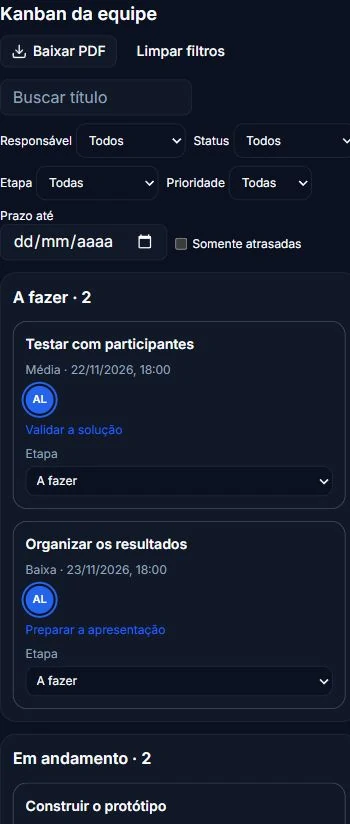
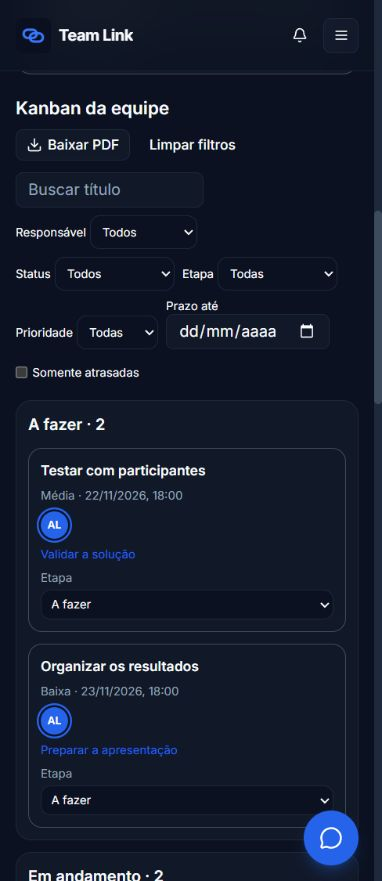
Add native HD screenshot gallery and unify Team Link branding

diff --git a/src/components/home/product-showcase.tsx b/src/components/home/product-showcase.tsx
@@ -1,9 +1,9 @@
 'use client'
 
 import { useEffect, useRef, useState, type CSSProperties } from 'react'
-import { Check, CheckSquare, FileText, GitBranch, LayoutDashboard, MessageSquare, PanelsTopLeft, Target, Users, X, ZoomIn, type LucideIcon } from 'lucide-react'
-import { productScreens, type ProductScreen } from './product-screens'
-import { nextShowcaseTab } from './showcase-navigation'
+import { Check, CheckSquare, ChevronLeft, ChevronRight, FileText, GitBranch, LayoutDashboard, MessageSquare, PanelsTopLeft, Target, Users, X, ZoomIn, ZoomOut, type LucideIcon } from 'lucide-react'
+import { galleryScreens, productScreens, type ProductScreen } from './product-screens'
+import { nextShowcaseTab, showcaseSwipeStep } from './showcase-navigation'
 import styles from './home.module.css'
 
 export type ShowcaseItem = {
@@ -13,23 +13,39 @@ export type ShowcaseItem = {
   description: string
 }
 
-const screenIcons:Record<ProductScreen,LucideIcon>={panel:PanelsTopLeft,space:LayoutDashboard,activities:CheckSquare,team:Users,goals:Target,messages:MessageSquare,documents:FileText,integrations:GitBranch}
+const screenIcons: Record<ProductScreen, LucideIcon> = { panel: PanelsTopLeft, space: LayoutDashboard, activities: CheckSquare, team: Users, goals: Target, messages: MessageSquare, documents: FileText, integrations: GitBranch }
 
-function ScreenImage({ screen, enlarged = false }: { screen: ProductScreen; enlarged?: boolean }) {
+function ScreenImage({ screen, enlarged = false, desktopOnly = false }: { screen: ProductScreen; enlarged?: boolean; desktopOnly?: boolean }) {
   const { desktop, mobile, alt } = productScreens[screen]
-  return <picture className={styles.screenImage} style={{ '--capture-desktop-width': desktop.width + 'px', '--capture-mobile-width': mobile.width + 'px' } as CSSProperties}>
-    <source media="(max-width: 1023px)" srcSet={mobile.src} width={mobile.width} height={mobile.height} />
-    {/* Already optimized WebP; picture provides the separately captured mobile composition. */}
-    <img src={desktop.src} width={desktop.width} height={desktop.height} alt={alt} loading={enlarged ? 'eager' : 'lazy'} decoding="async" draggable={false} />
+  const image = enlarged ? galleryScreens.find(item => item.id === screen)!.image : desktop
+  return <picture className={styles.screenImage} style={{ '--capture-desktop-width': image.width + 'px', '--capture-mobile-width': mobile.width + 'px' } as CSSProperties}>
+    {!desktopOnly && <source media="(max-width: 1023px)" srcSet={mobile.src} width={mobile.width} height={mobile.height} />}
+    {/* Pre-optimized WebP: full native resolution is fetched only when the gallery opens. */}
+    <img src={image.src} width={image.width} height={image.height} alt={alt} loading={enlarged ? 'eager' : 'lazy'} decoding="async" draggable={false} />
   </picture>
 }
 
 export function ProductShowcase({ items, id, label, preview = false }: { items: readonly ShowcaseItem[]; id: string; label: string; preview?: boolean }) {
   const [selected, setSelected] = useState(0)
-  const [expanded, setExpanded] = useState(false)
+  const [galleryIndex, setGalleryIndex] = useState<number | null>(null)
+  const [zoomed, setZoomed] = useState(false)
+  const [desktopOnly, setDesktopOnly] = useState(false)
   const tabs = useRef<(HTMLButtonElement | null)[]>([])
   const dialog = useRef<HTMLDialogElement>(null)
-  const active = items[selected]
+  const stage = useRef<HTMLDivElement>(null)
+  const drag = useRef<{ x: number; y: number; pointer: number } | null>(null)
+  const expanded = galleryIndex !== null
+  const active = galleryScreens[galleryIndex ?? 0]
+
+  function openGallery(screen: ProductScreen) {
+    setZoomed(false)
+    setDesktopOnly(false)
+    setGalleryIndex(galleryScreens.findIndex(item => item.id === screen))
+  }
+  function navigate(step: number) {
+    setZoomed(false)
+    setGalleryIndex(current => current === null ? null : (current + step + galleryScreens.length) % galleryScreens.length)
+  }
 
   useEffect(() => {
     if (!expanded) return
@@ -46,28 +62,69 @@ export function ProductShowcase({ items, id, label, preview = false }: { items: 
     }
   }, [expanded])
 
+  useEffect(() => {
+    stage.current?.scrollTo({ top: 0, left: 0 })
+    drag.current = null
+  }, [galleryIndex, zoomed, desktopOnly])
+
   return <div className={preview ? styles.productFrame : styles.tour}>
     <div role="tablist" aria-label={label} className={styles.tourTabs + (preview ? ' ' + styles.previewTabs : '')} onKeyDown={event => {
+      if (event.altKey || event.ctrlKey || event.metaKey) return
       const destination = nextShowcaseTab(event.key, selected, items.length)
       if (destination !== null) { event.preventDefault(); setSelected(destination); tabs.current[destination]?.focus() }
     }}>
-      {items.map(({ id: screen, label: text }, index) => {const Icon=screenIcons[screen];return <button key={screen} ref={element => { tabs.current[index] = element }} type="button" role="tab" id={`${id}-tab-${screen}`} aria-controls={`${id}-panel-${screen}`} aria-selected={index === selected} tabIndex={index === selected ? 0 : -1} onClick={() => setSelected(index)}><Icon aria-hidden className="size-4 shrink-0" /><span className={styles.tabLabel}>{text}</span><span aria-hidden="true" className={styles.tabSelection}><Check className="size-3.5" /></span></button>})}
+      {items.map(({ id: screen, label: text }, index) => {
+        const Icon = screenIcons[screen]
+        return <button key={screen} ref={element => { tabs.current[index] = element }} type="button" role="tab" id={`${id}-tab-${screen}`} aria-controls={`${id}-panel-${screen}`} aria-selected={index === selected} tabIndex={index === selected ? 0 : -1} onClick={() => setSelected(index)}><Icon aria-hidden className="size-4 shrink-0" /><span className={styles.tabLabel}>{text}</span><span aria-hidden="true" className={styles.tabSelection}><Check className="size-3.5" /></span></button>
+      })}
     </div>
     {items.map((item, index) => <div key={item.id} role="tabpanel" id={`${id}-panel-${item.id}`} aria-labelledby={`${id}-tab-${item.id}`} hidden={selected !== index} tabIndex={0} className={styles.tourPanel}>
       {selected === index && <>
         {preview ? <p className={styles.previewDescription}>{item.description}</p> : <div className={styles.tourIntro}><div><h3>{item.title}</h3><p>{item.description}</p></div><span>Demonstração — dados ilustrativos</span></div>}
-        <div className={styles.screenshotFrame + (preview ? ' ' + styles.previewScreenshot : '')}><ScreenImage screen={item.id} /></div>
-        <div className={styles.captureFooter}><p>Captura de tela · {productScreens[item.id].caption}</p><button type="button" onClick={() => setExpanded(true)} aria-label={'Ampliar captura de ' + item.label}><ZoomIn aria-hidden className="size-4" />Ampliar captura</button></div>
+        <button type="button" className={`${styles.screenshotFrame} ${styles.captureTrigger}${preview ? ' ' + styles.previewScreenshot : ''}`} aria-label={'Abrir galeria: ' + item.label} aria-haspopup="dialog" onClick={() => openGallery(item.id)}><ScreenImage screen={item.id} /></button>
+        <div className={styles.captureFooter}><p>Captura de tela · {productScreens[item.id].caption}</p><button type="button" onClick={() => openGallery(item.id)} aria-label={'Ampliar captura de ' + item.label} aria-haspopup="dialog"><ZoomIn aria-hidden className="size-4" />Ampliar captura</button></div>
       </>}
     </div>)}
-    <dialog ref={dialog} className={styles.captureDialog} aria-label={'Captura ampliada de ' + active.label} onCancel={event => { event.preventDefault(); setExpanded(false) }} onClick={event => {
+    <dialog ref={dialog} className={styles.captureDialog} aria-label="Galeria de capturas do Team Link" aria-describedby={`${id}-gallery-note`} onCancel={event => { event.preventDefault(); setGalleryIndex(null) }} onKeyDown={event => {
+      if (event.key === 'Tab') {
+        const controls = Array.from(event.currentTarget.querySelectorAll<HTMLElement>('button:not([disabled]),[tabindex="0"]')).filter(element => element.getClientRects().length > 0)
+        const first = controls[0], last = controls.at(-1)
+        if (event.shiftKey && document.activeElement === first) { event.preventDefault(); last?.focus() }
+        else if (!event.shiftKey && document.activeElement === last) { event.preventDefault(); first?.focus() }
+        return
+      }
+      if (event.altKey || event.ctrlKey || event.metaKey) return
+      if (event.key === 'ArrowLeft' || event.key === 'ArrowRight') { event.preventDefault(); navigate(event.key === 'ArrowLeft' ? -1 : 1) }
+      if (event.key === 'Home' || event.key === 'End') { event.preventDefault(); setZoomed(false); setGalleryIndex(event.key === 'Home' ? 0 : galleryScreens.length - 1) }
+    }} onClick={event => {
       if (event.target !== event.currentTarget) return
       const rect = event.currentTarget.getBoundingClientRect()
-      if (event.clientX < rect.left || event.clientX > rect.right || event.clientY < rect.top || event.clientY > rect.bottom) setExpanded(false)
+      if (event.clientX < rect.left || event.clientX > rect.right || event.clientY < rect.top || event.clientY > rect.bottom) setGalleryIndex(null)
     }}>
-      <div className={styles.captureDialogHeader}><div><h2>{active.label}</h2><p>Demonstração — dados ilustrativos</p></div><button type="button" aria-label="Fechar captura ampliada" onClick={() => setExpanded(false)}><X aria-hidden className="size-5" /></button></div>
-      {expanded && <div className={styles.screenshotFrame}><ScreenImage screen={active.id} enlarged /></div>}
-      <p className={styles.captureDialogNote}>Captura da interface do Team Link. Acesse sua conta para utilizar os recursos.</p>
+      <div className={styles.captureDialogHeader}><div><h2>{active.label}</h2><p>Demonstração — dados ilustrativos</p></div><button type="button" aria-label="Fechar galeria" onClick={() => setGalleryIndex(null)}><X aria-hidden className="size-5" /></button></div>
+      <div ref={stage} className={styles.captureStage} data-zoomed={zoomed} data-desktop={desktopOnly} tabIndex={zoomed ? 0 : -1} aria-label="Captura; em tamanho original, use a rolagem para explorar os detalhes" onKeyDown={event => {
+        if (zoomed && (event.key === 'ArrowLeft' || event.key === 'ArrowRight')) event.stopPropagation()
+      }} onPointerDown={event => {
+        if (zoomed || event.button !== 0 || !event.isPrimary) return
+        drag.current = { x: event.clientX, y: event.clientY, pointer: event.pointerId }
+        event.currentTarget.setPointerCapture(event.pointerId)
+      }} onPointerUp={event => {
+        const start = drag.current
+        drag.current = null
+        if (!start || start.pointer !== event.pointerId || zoomed) return
+        const step = showcaseSwipeStep(event.clientX - start.x, event.clientY - start.y)
+        if (step) navigate(step)
+      }} onPointerCancel={() => { drag.current = null }}>
+        {expanded && <ScreenImage key={active.id + String(desktopOnly)} screen={active.id} enlarged desktopOnly={desktopOnly} />}
+      </div>
+      <div className={styles.galleryToolbar}>
+        <div className={styles.galleryNavigation}><button type="button" aria-label="Captura anterior" onClick={() => navigate(-1)}><ChevronLeft aria-hidden className="size-5" /></button><p role="status" aria-live="polite" aria-atomic="true">{(galleryIndex ?? 0) + 1} de {galleryScreens.length}</p><button type="button" aria-label="Próxima captura" onClick={() => navigate(1)}><ChevronRight aria-hidden className="size-5" /></button></div>
+        <div className={styles.galleryViewControls}>
+          <button type="button" className={styles.galleryFormat} aria-pressed={desktopOnly} aria-label={desktopOnly ? 'Ver captura adaptada ao dispositivo' : 'Ver captura desktop em Full HD'} onClick={() => { setZoomed(false); setDesktopOnly(value => !value) }}>{desktopOnly ? 'Mobile' : 'HD'}</button>
+          <button type="button" aria-pressed={zoomed} aria-label={zoomed ? 'Ajustar captura à tela' : 'Ver captura em tamanho original'} onClick={() => setZoomed(value => !value)}>{zoomed ? <ZoomOut aria-hidden className="size-4" /> : <ZoomIn aria-hidden className="size-4" />}<span>{zoomed ? 'Ajustar' : '100%'}</span></button>
+        </div>
+      </div>
+      <p id={`${id}-gallery-note`} className={styles.captureDialogNote}>Interface real do Team Link · Arraste para os lados ou use as setas. Em 100%, role a imagem para ler os detalhes.</p>
     </dialog>
   </div>
 }

diff --git a/src/components/home/home.module.css b/src/components/home/home.module.css
@@ -84,10 +84,12 @@
 .solution { background: color-mix(in srgb, var(--home-soft) 45%, var(--background)); scroll-margin-top: 100px; }
 .tour { border: 1px solid var(--home-line); border-radius: 16px; background: var(--home-frame); overflow: hidden; box-shadow: 0 12px 50px -30px #0004; }
 .tourTabs { display: grid; grid-template-columns: repeat(6, minmax(0, 1fr)); padding: 12px; gap: 10px; border-bottom: 1px solid var(--home-line); background: var(--home-soft); }
-.tourTabs > button { position: relative; display: flex; align-items: center; justify-content: center; gap: 8px; min-width: 0; min-height: 50px; padding: 12px; border: 1px solid var(--home-tab-border); border-radius: 10px; background: var(--home-tab-surface); color: var(--foreground); font-size: 13px; line-height: 1.4; font-weight: 600; cursor: pointer; transition: background-color .15s ease, border-color .15s ease, box-shadow .15s ease; }
+.tourTabs > button { position: relative; display: flex; align-items: center; justify-content: center; gap: 8px; min-width: 0; min-height: 50px; padding: 12px; border: 2px solid var(--home-tab-border); border-radius: 10px; background: var(--home-tab-surface); color: var(--foreground); font-size: 13px; line-height: 1.4; font-weight: 600; box-shadow: 0 2px 3px #00000012; cursor: pointer; transition: background-color .15s ease, border-color .15s ease, box-shadow .15s ease; }
 .tourTabs > button:hover { background: var(--home-accent); border-color: var(--home-blue); }
 .tourTabs > button[aria-selected="true"] { color: #fff; background: var(--home-action-blue); border-color: var(--home-action-blue); box-shadow: 0 2px 7px color-mix(in srgb, var(--home-action-blue) 24%, transparent); }
 .tourTabs > button[aria-selected="true"]:hover { background: var(--home-action-blue-hover); border-color: var(--home-action-blue-hover); }
+.tourTabs > button:active { box-shadow: inset 0 2px 5px #0003; background: var(--home-accent); }
+.tourTabs > button[aria-selected="true"]:active { background: var(--home-action-blue-hover); }
 .tabLabel { min-width: 0; }
 .tabSelection { display: inline-flex; width: 14px; height: 14px; flex-shrink: 0; opacity: 0; }
 .tourTabs > button[aria-selected="true"] .tabSelection { opacity: 1; }
@@ -210,14 +212,34 @@
 .captureFooter > p { max-width: 65ch; }
 .captureFooter > button { display: inline-flex; align-items: center; gap: 7px; flex-shrink: 0; min-height: 36px; padding: 6px 10px; border: 1px solid var(--home-line); border-radius: 8px; color: var(--home-blue); background: var(--home-soft); font-size: 12px; font-weight: 550; cursor: pointer; }
 .captureFooter > button:hover { background: var(--home-accent); }
-.captureDialog { position: fixed; inset: 0; margin: auto; width: calc(100% - 32px); max-width: 1400px; max-height: 92dvh; padding: 0; overflow-y: auto; overscroll-behavior: contain; border: 1px solid var(--home-line); border-radius: 16px; background: var(--home-frame); color: var(--foreground); box-shadow: 0 25px 90px #0008; }
+.captureDialog { position: fixed; inset: 0; margin: auto; width: calc(100% - 32px); max-width: 1600px; height: 92dvh; max-height: 1100px; padding: 0; overflow: hidden; overscroll-behavior: contain; border: 1px solid var(--home-line); border-radius: 16px; background: var(--home-frame); color: var(--foreground); box-shadow: 0 25px 90px #0008; }
+.captureDialog[open] { display: grid; grid-template-rows: auto minmax(0, 1fr) auto auto; }
 .captureDialog::backdrop { background: #030713cc; backdrop-filter: blur(5px); }
 .captureDialogHeader { position: sticky; top: 0; display: flex; align-items: center; justify-content: space-between; gap: 16px; padding: 16px 20px; background: var(--home-frame); border-bottom: 1px solid var(--home-line); }
 .home .captureDialog h2 { font-size: 18px; line-height: 1.4; letter-spacing: -.02em; font-weight: 650; }
 .captureDialogHeader p, .captureDialogNote { font-size: 11px; color: var(--home-muted); line-height: 1.8; }
-.captureDialogHeader button { display: grid; place-items: center; width: 40px; height: 40px; flex-shrink: 0; border-radius: 8px; border: 1px solid var(--home-line); cursor: pointer; }
+.captureDialogHeader button { display: grid; place-items: center; width: 44px; height: 44px; flex-shrink: 0; border-radius: 8px; border: 1px solid var(--home-line); cursor: pointer; }
 .captureDialogHeader button:hover { background: var(--home-soft); }
 .captureDialogNote { padding: 12px 20px; }
+.captureTrigger { width: 100%; cursor: zoom-in; }
+.captureTrigger:hover { outline: 2px solid var(--home-blue); outline-offset: -2px; }
+.home .captureTrigger:focus-visible { outline-offset: -4px; }
+.captureStage { min-height: 0; min-width: 0; overflow: auto; background: #0b1120; overscroll-behavior: contain; touch-action: pan-y pinch-zoom; cursor: grab; user-select: none; }
+.captureStage:active { cursor: grabbing; }
+.home .captureStage:focus-visible { outline-offset: -4px; }
+.captureStage .screenImage { height: 100%; }
+.captureStage .screenImage img { width: 100%; height: 100%; max-width: none; object-fit: contain; }
+.captureStage[data-zoomed="true"] { touch-action: auto; cursor: auto; }
+.captureStage[data-zoomed="true"] .screenImage { display: block; width: max-content; height: auto; }
+.captureStage[data-zoomed="true"] img { display: block; width: var(--capture-desktop-width); height: auto; max-width: none; }
+.galleryToolbar { display: flex; flex-wrap: wrap; align-items: center; justify-content: space-between; gap: 12px; padding: 10px 20px; border-top: 1px solid var(--home-line); }
+.galleryViewControls { display: flex; gap: 8px; margin-left: auto; }
+.galleryNavigation { display: flex; align-items: center; gap: 10px; }
+.galleryNavigation p { min-width: 46px; text-align: center; font-size: 13px; font-variant-numeric: tabular-nums; }
+.galleryToolbar button { display: inline-flex; align-items: center; justify-content: center; gap: 6px; min-width: 44px; min-height: 44px; padding: 8px 12px; border: 1px solid var(--home-tab-border); border-radius: 8px; background: var(--home-tab-surface); color: var(--foreground); font-size: 12px; font-weight: 600; cursor: pointer; }
+.galleryToolbar button:hover, .galleryToolbar button:active { background: var(--home-accent); border-color: var(--home-blue); }
+.galleryToolbar button[aria-pressed="true"] { background: var(--home-action-blue); color: #fff; border-color: var(--home-action-blue); }
+.galleryToolbar .galleryFormat { display: none; }
 @media (max-width: 1023px) {
   .screenImage img { max-width: var(--capture-mobile-width); }
   .screenshotFrame { min-height: 0; padding: 16px; }
@@ -237,10 +259,18 @@
   .captureDialogHeader { padding: 12px; }
   .captureDialog .screenshotFrame { padding: 8px; }
   .captureDialogNote { padding: 12px; }
+  .galleryToolbar { padding: 8px 12px; gap: 8px; }
+  .galleryNavigation { gap: 6px; }
 }
 @media (max-width: 359px) {
   .tourTabs { grid-template-columns: repeat(2, minmax(0, 1fr)); }
 }
 @media (prefers-reduced-motion: reduce) {
   .tourTabs > button { transition: none; }
+}
+@media (max-width: 1023px) {
+  .galleryToolbar .galleryFormat { display: inline-flex; }
+  .captureStage:not([data-desktop="true"]) .screenImage { height: auto; }
+  .captureStage:not([data-desktop="true"]) img { height: auto; max-width: var(--capture-mobile-width); }
+  .captureStage[data-zoomed="true"]:not([data-desktop="true"]) img { width: var(--capture-mobile-width); }
 }

diff --git a/src/components/home/product-screens.ts b/src/components/home/product-screens.ts
@@ -14,17 +14,38 @@ import documentsDesktop from './screens/documents-desktop.webp'
 import documentsMobile from './screens/documents-mobile.webp'
 import integrationsDesktop from './screens/integrations-desktop.webp'
 import integrationsMobile from './screens/integrations-mobile.webp'
+import panelFull from './screens/panel-full.webp'
+import spaceFull from './screens/space-full.webp'
+import activitiesFull from './screens/activities-full.webp'
+import teamFull from './screens/team-full.webp'
+import goalsFull from './screens/goals-full.webp'
+import messagesFull from './screens/messages-full.webp'
+import documentsFull from './screens/documents-full.webp'
+import integrationsFull from './screens/integrations-full.webp'
 
-// Captured from the unchanged application at 787c855, using isolated synthetic data.
+// Native captures of the actual application with isolated demonstration data.
+// Full-resolution originals recaptured on 2026-11-08 (at least 2040 × 1084, no upscale).
+// The smaller desktop/mobile previews keep the Home lightweight.
 export const productScreens = {
   panel: { desktop: panelDesktop, mobile: panelMobile, caption: 'Recorte do painel: período, atividades e equipe.', alt: 'Painel real do Projeto Aurora, com resumo de atividades, metas, progresso e integrantes. Dados de demonstração.' },
   space: { desktop: spaceDesktop, mobile: spaceMobile, caption: 'Meu Espaço: dashboard pessoal.', alt: 'Meu Espaço real, com navegação pessoal e contadores de projetos, atividades, candidaturas e revisões. Dados de demonstração.' },
   activities: { desktop: activitiesDesktop, mobile: activitiesMobile, caption: 'Recorte do Kanban da equipe.', alt: 'Kanban real com filtros, etapas, prioridades, prazos e responsáveis. No celular, as etapas aparecem empilhadas. Dados de demonstração.' },
-  team: { desktop: teamDesktop, mobile: teamMobile, caption: 'Card de integrantes do painel.', alt: 'Equipe real do painel com quatro integrantes de demonstração: Líder, Gestor, Revisor e Membro, cada um com seu cargo exibido.' },
+  team: { desktop: teamDesktop, mobile: teamMobile, caption: 'Integrantes, níveis de acesso e cargos do projeto.', alt: 'Equipe real com quatro integrantes de demonstração: Líder, Gestor, Revisor e Membro, cada um com seu cargo exibido.' },
   goals: { desktop: goalsDesktop, mobile: goalsMobile, caption: 'Dashboard do Controle de Atividades.', alt: 'Dashboard real de atividades e metas do período, com três de oito atividades concluídas, progresso de 38% e barras de progresso das metas. Dados de demonstração.' },
   messages: { desktop: messagesDesktop, mobile: messagesMobile, caption: 'Conversa Geral de um projeto.', alt: 'Interface real de mensagens de projetos, com lista de conversas, histórico, autores e campo de mensagem. A versão mobile mostra a conversa aberta. Conteúdo de demonstração.' },
   documents: { desktop: documentsDesktop, mobile: documentsMobile, caption: 'Assistente de relatório: etapa 1 de 5.', alt: 'Assistente real do Gerador de Relatórios, com as etapas Documento, Informações, Dados, Conteúdo e Finalizar. Relatório acadêmico de demonstração.' },
   integrations: { desktop: integrationsDesktop, mobile: integrationsMobile, caption: 'Catálogo de funcionalidades do projeto.', alt: 'Catálogo real de funcionalidades: Gerador de Relatórios, GitHub, Suporte SAC e Controle de Atividades obrigatório. GitHub e SAC aparecem disponíveis para adicionar.' },
 } as const
+
+export const galleryScreens = [
+  { id: 'panel', label: 'Painel do projeto', image: panelFull },
+  { id: 'space', label: 'Meu Espaço', image: spaceFull },
+  { id: 'activities', label: 'Atividades', image: activitiesFull },
+  { id: 'team', label: 'Equipe', image: teamFull },
+  { id: 'goals', label: 'Metas', image: goalsFull },
+  { id: 'messages', label: 'Comunicação', image: messagesFull },
+  { id: 'documents', label: 'Documentação', image: documentsFull },
+  { id: 'integrations', label: 'Integrações', image: integrationsFull },
+] as const
 
 export type ProductScreen = keyof typeof productScreens

diff --git a/src/components/layout/site-header.tsx b/src/components/layout/site-header.tsx
@@ -1,9 +1,10 @@
 "use client"
 
 import Link from "next/link"
+import Image from "next/image"
 import { usePathname, useRouter } from "next/navigation"
 import { useCallback, useEffect, useRef, useState } from "react"
-import { Briefcase, Compass, Home, Info, Link2, LogOut, Menu, MessageCircle, Moon, LayoutDashboard, Sun, X, CircleHelp } from "lucide-react"
+import { Briefcase, Compass, Home, Info, LogOut, Menu, MessageCircle, Moon, LayoutDashboard, Sun, X, CircleHelp } from "lucide-react"
 
 import { Button } from "@/components/ui/button"
 import {
@@ -165,9 +166,7 @@ export function SiteHeader({ fullBleed = false }: { fullBleed?: boolean }) {
               href="/"
               className="flex min-w-0 shrink items-center gap-2 font-bold tracking-tight text-foreground"
             >
-              <span className="flex h-9 w-9 shrink-0 items-center justify-center rounded-2xl bg-primary/15 text-primary sm:h-10 sm:w-10">
-                <Link2 className="h-5 w-5" aria-hidden />
-              </span>
+              <Image src="/icons/icon-192.png" alt="" width={36} height={36} className="shrink-0" />
               <span className="truncate text-base sm:text-lg">Team Link</span>
             </Link>
 
@@ -304,9 +303,7 @@ export function SiteHeader({ fullBleed = false }: { fullBleed?: boolean }) {
                 onClick={closeMobile}
                 className="flex min-w-0 shrink items-center gap-2 font-bold tracking-tight text-foreground"
               >
-                <span className="flex h-10 w-10 shrink-0 items-center justify-center rounded-2xl bg-primary/15 text-primary">
-                  <Link2 className="h-5 w-5" aria-hidden />
-                </span>
+                <Image src="/icons/icon-192.png" alt="" width={36} height={36} className="shrink-0" />
                 <span className="truncate text-lg">Team Link</span>
               </Link>
               <div className="flex shrink-0 items-center gap-1">

diff --git a/src/app/(marketing)/page.tsx b/src/app/(marketing)/page.tsx
@@ -1,5 +1,6 @@
 import type { Metadata } from 'next'
 import Link from 'next/link'
+import Image from 'next/image'
 import { ArrowDown, ArrowRight, Check, CheckSquare, FileText, GitBranch, Link2, MessageSquare, Puzzle, Target, Users } from 'lucide-react'
 
 import { Container } from '@/components/layout/container'
@@ -11,7 +12,7 @@ import { ProductTour } from '@/components/home/product-tour'
 import styles from '@/components/home/home.module.css'
 
 export const metadata: Metadata = {
-  title: { absolute: 'Team Link — Seu projeto inteiro. Um só lugar.' },
+  title: { absolute: 'Team Link' },
   description: 'Da ideia à entrega, reúna sua equipe, atividades, metas, conversas e documentação em uma única plataforma.',
 }
 
@@ -101,7 +102,7 @@ export default function HomePage() {
       <section aria-labelledby="start-title" className={styles.finalSection}>
         <Container>
           <div className={styles.finalCall}>
-            <span className={styles.finalMark}><Link2 aria-hidden className="size-7" /></span>
+            <span className={styles.finalMark}><Image src="/icons/icon-192.png" alt="" width={40} height={40} /></span>
             <h2 id="start-title">Pronto para <span className={styles.accentText}>reunir seu projeto</span> em um só lugar?</h2>
             <p>Comece com a sua ideia ou encontre uma equipe para construir junto.</p>
             <div className={styles.actions}><ProjectStart>Criar meu projeto<ArrowRight aria-hidden className="size-4" /></ProjectStart><Button asChild variant="outline" size="lg" className={styles.secondaryAction}><Link href="/explorar">Explorar projetos</Link></Button></div>

diff --git a/src/components/home/product-tour.tsx b/src/components/home/product-tour.tsx
@@ -2,7 +2,7 @@ import { ProductShowcase, type ShowcaseItem } from './product-showcase'
 
 const features = [
   { id: 'activities', label: 'Atividades', title: 'Responsabilidades claras. Entregas visíveis.', description: 'O Kanban do Controle de Atividades, com suas etapas, filtros, prioridades, prazos e responsáveis. No celular, as etapas ocupam novas linhas.' },
-  { id: 'team', label: 'Equipe', title: 'As pessoas certas, com papéis definidos.', description: 'O card de integrantes do painel apresenta Líder, Gestor, Revisor e Membro, junto do cargo exibido de cada pessoa.' },
+  { id: 'team', label: 'Equipe', title: 'As pessoas certas, com papéis definidos.', description: 'Consulte os integrantes, seus níveis de acesso e os cargos de cada pessoa na equipe do projeto.' },
   { id: 'goals', label: 'Metas', title: 'O próximo passo tem um objetivo.', description: 'O dashboard do Controle de Atividades reúne o progresso das entregas e das metas do período selecionado.' },
   { id: 'messages', label: 'Comunicação', title: 'A conversa continua dentro do projeto.', description: 'Na central de mensagens, a equipe acessa as conversas do projeto e mantém o histórico das decisões no mesmo contexto.' },
   { id: 'documents', label: 'Documentação', title: 'Do trabalho realizado ao documento.', description: 'O assistente real organiza o relatório em cinco etapas: Documento, Informações, Dados, Conteúdo e Finalizar. Revise o documento antes de exportar.' },

diff --git a/src/components/layout/site-footer.module.css b/src/components/layout/site-footer.module.css
@@ -13,7 +13,7 @@
 }
 .brand { grid-column: 1 / -1; }
 .logo { display: inline-flex; align-items: center; gap: 8px; font-size: 18px; font-weight: 700; letter-spacing: -.025em; }
-.logoMark { display: grid; place-items: center; width: 40px; height: 40px; flex-shrink: 0; border-radius: 16px; background: color-mix(in srgb, var(--primary) 15%, transparent); color: var(--primary); }
+.logoMark { width: 36px; height: 36px; flex-shrink: 0; }
 .tagline { max-width: 28ch; margin-top: 14px; padding-left: 12px; border-left: 2px solid var(--footer-accent); color: var(--muted-foreground); font-size: 14px; line-height: 1.7; }
 .heading { margin-bottom: 8px; font-size: 12px; font-weight: 650; letter-spacing: .08em; text-transform: uppercase; line-height: 1.7; }
 .links a { display: flex; align-items: center; width: fit-content; max-width: 100%; min-height: 44px; padding-block: 8px; color: var(--muted-foreground); font-size: 14px; line-height: 1.5; text-underline-offset: 4px; }

diff --git a/src/components/layout/site-footer.tsx b/src/components/layout/site-footer.tsx
@@ -1,7 +1,7 @@
 "use client"
 
 import Link from "next/link"
-import { Link2 } from "lucide-react"
+import Image from "next/image"
 
 import { Container } from "@/components/layout/container"
 import { useNavigationSession } from "@/components/profile/friendships-provider"
@@ -31,7 +31,7 @@ export function SiteFooter() {
         <div className={styles.grid}>
           <div className={styles.brand}>
             <Link href="/" className={styles.logo}>
-              <span className={styles.logoMark}><Link2 className="h-5 w-5" aria-hidden /></span>
+              <Image src="/icons/icon-192.png" alt="" width={36} height={36} className={styles.logoMark} />
               Team Link
             </Link>
             <p className={styles.tagline}>Seu projeto inteiro. Um só lugar.</p>

diff --git a/src/app/layout.tsx b/src/app/layout.tsx
@@ -18,12 +18,12 @@ export const viewport: Viewport = {
 
 export const metadata: Metadata = {
   manifest: '/manifest.webmanifest',
-  icons: { apple:'/icons/icon-192.png' },
+  icons: { icon: [{ url:'/favicon.ico?v=team-link-20261108',type:'image/x-icon',sizes:'16x16 32x32 48x48 64x64' }], apple:'/icons/icon-192.png' },
   appleWebApp: { capable:true,title:'Team Link',statusBarStyle:'default' },
   metadataBase: new URL("https://team-link.vercel.app"),
   title: {
     default: "Team Link",
-    template: "%s | Team Link",
+    template: "Team Link",
   },
   description: TEAM_LINK_DESCRIPTION,
   keywords:

diff --git a/src/components/home/showcase-navigation.ts b/src/components/home/showcase-navigation.ts
@@ -6,3 +6,9 @@ export function nextShowcaseTab(key: string, selected: number, count: number): n
   if (key === 'End') return count - 1
   return null
 }
+
+/** Horizontal intent only: vertical scrolling and short taps never change images. */
+export function showcaseSwipeStep(deltaX: number, deltaY: number): -1 | 0 | 1 {
+  if (Math.abs(deltaX) < 60 || Math.abs(deltaX) < Math.abs(deltaY) * 1.25) return 0
+  return deltaX < 0 ? 1 : -1
+}
